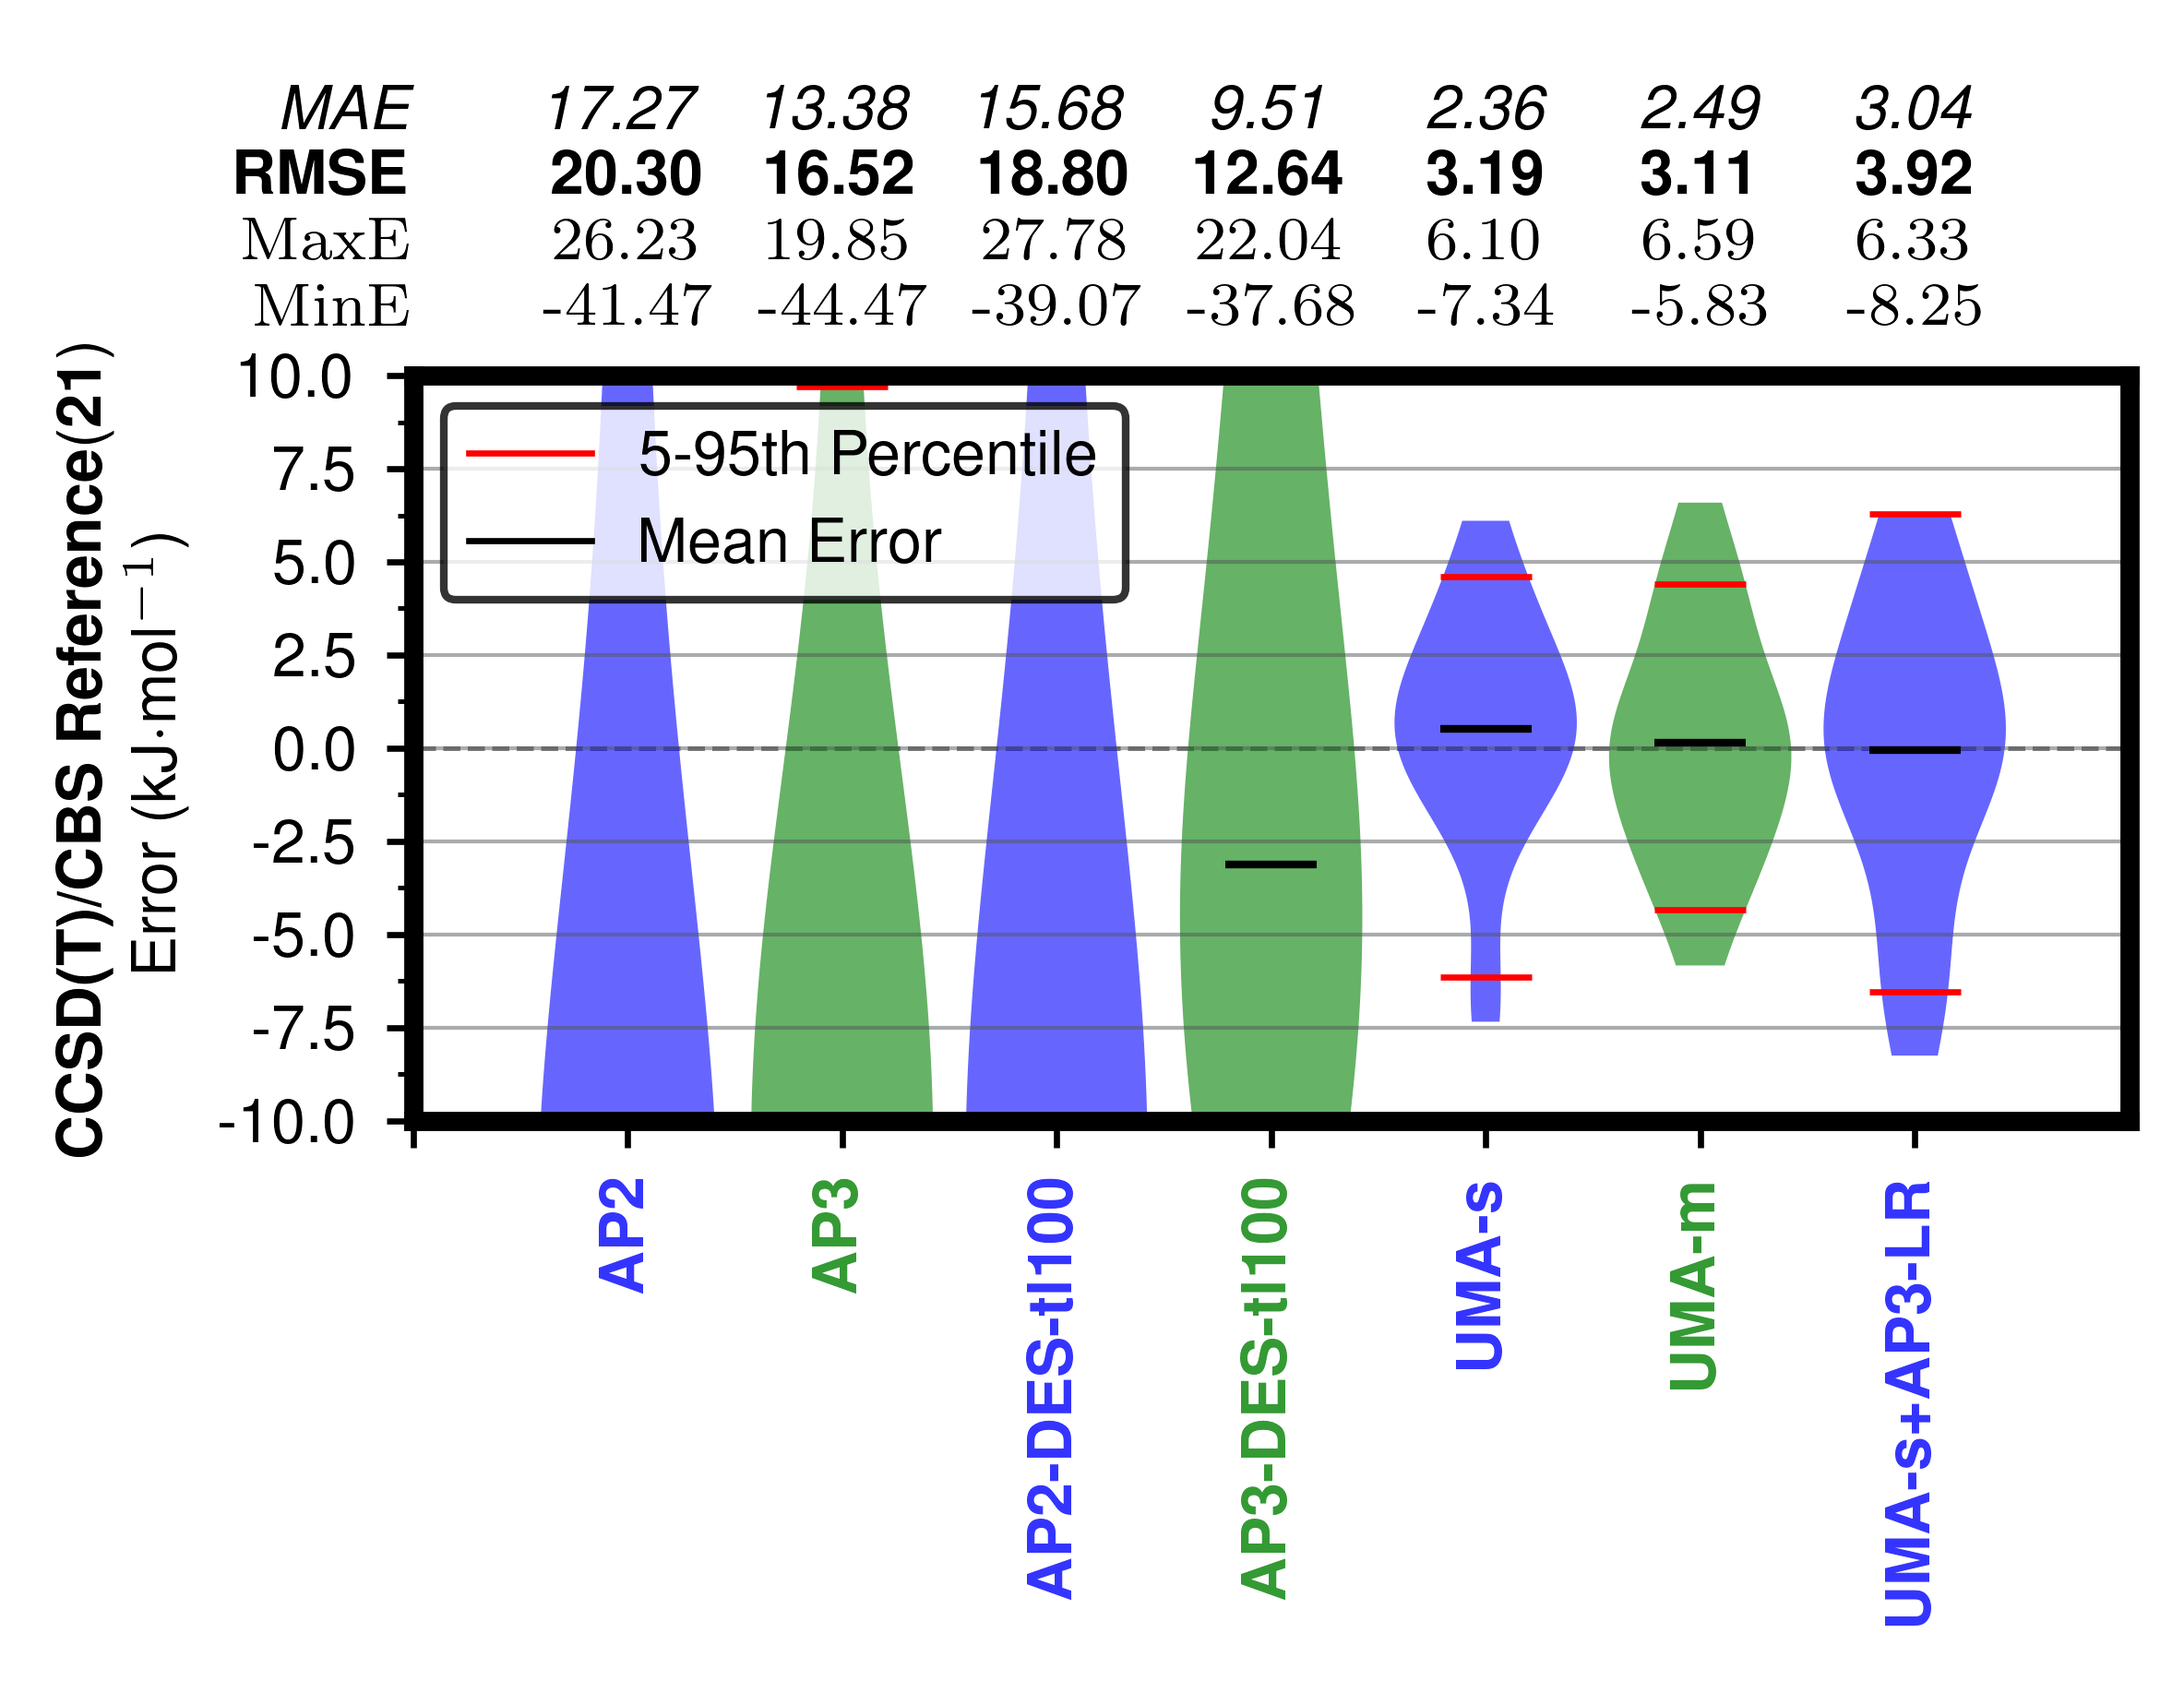
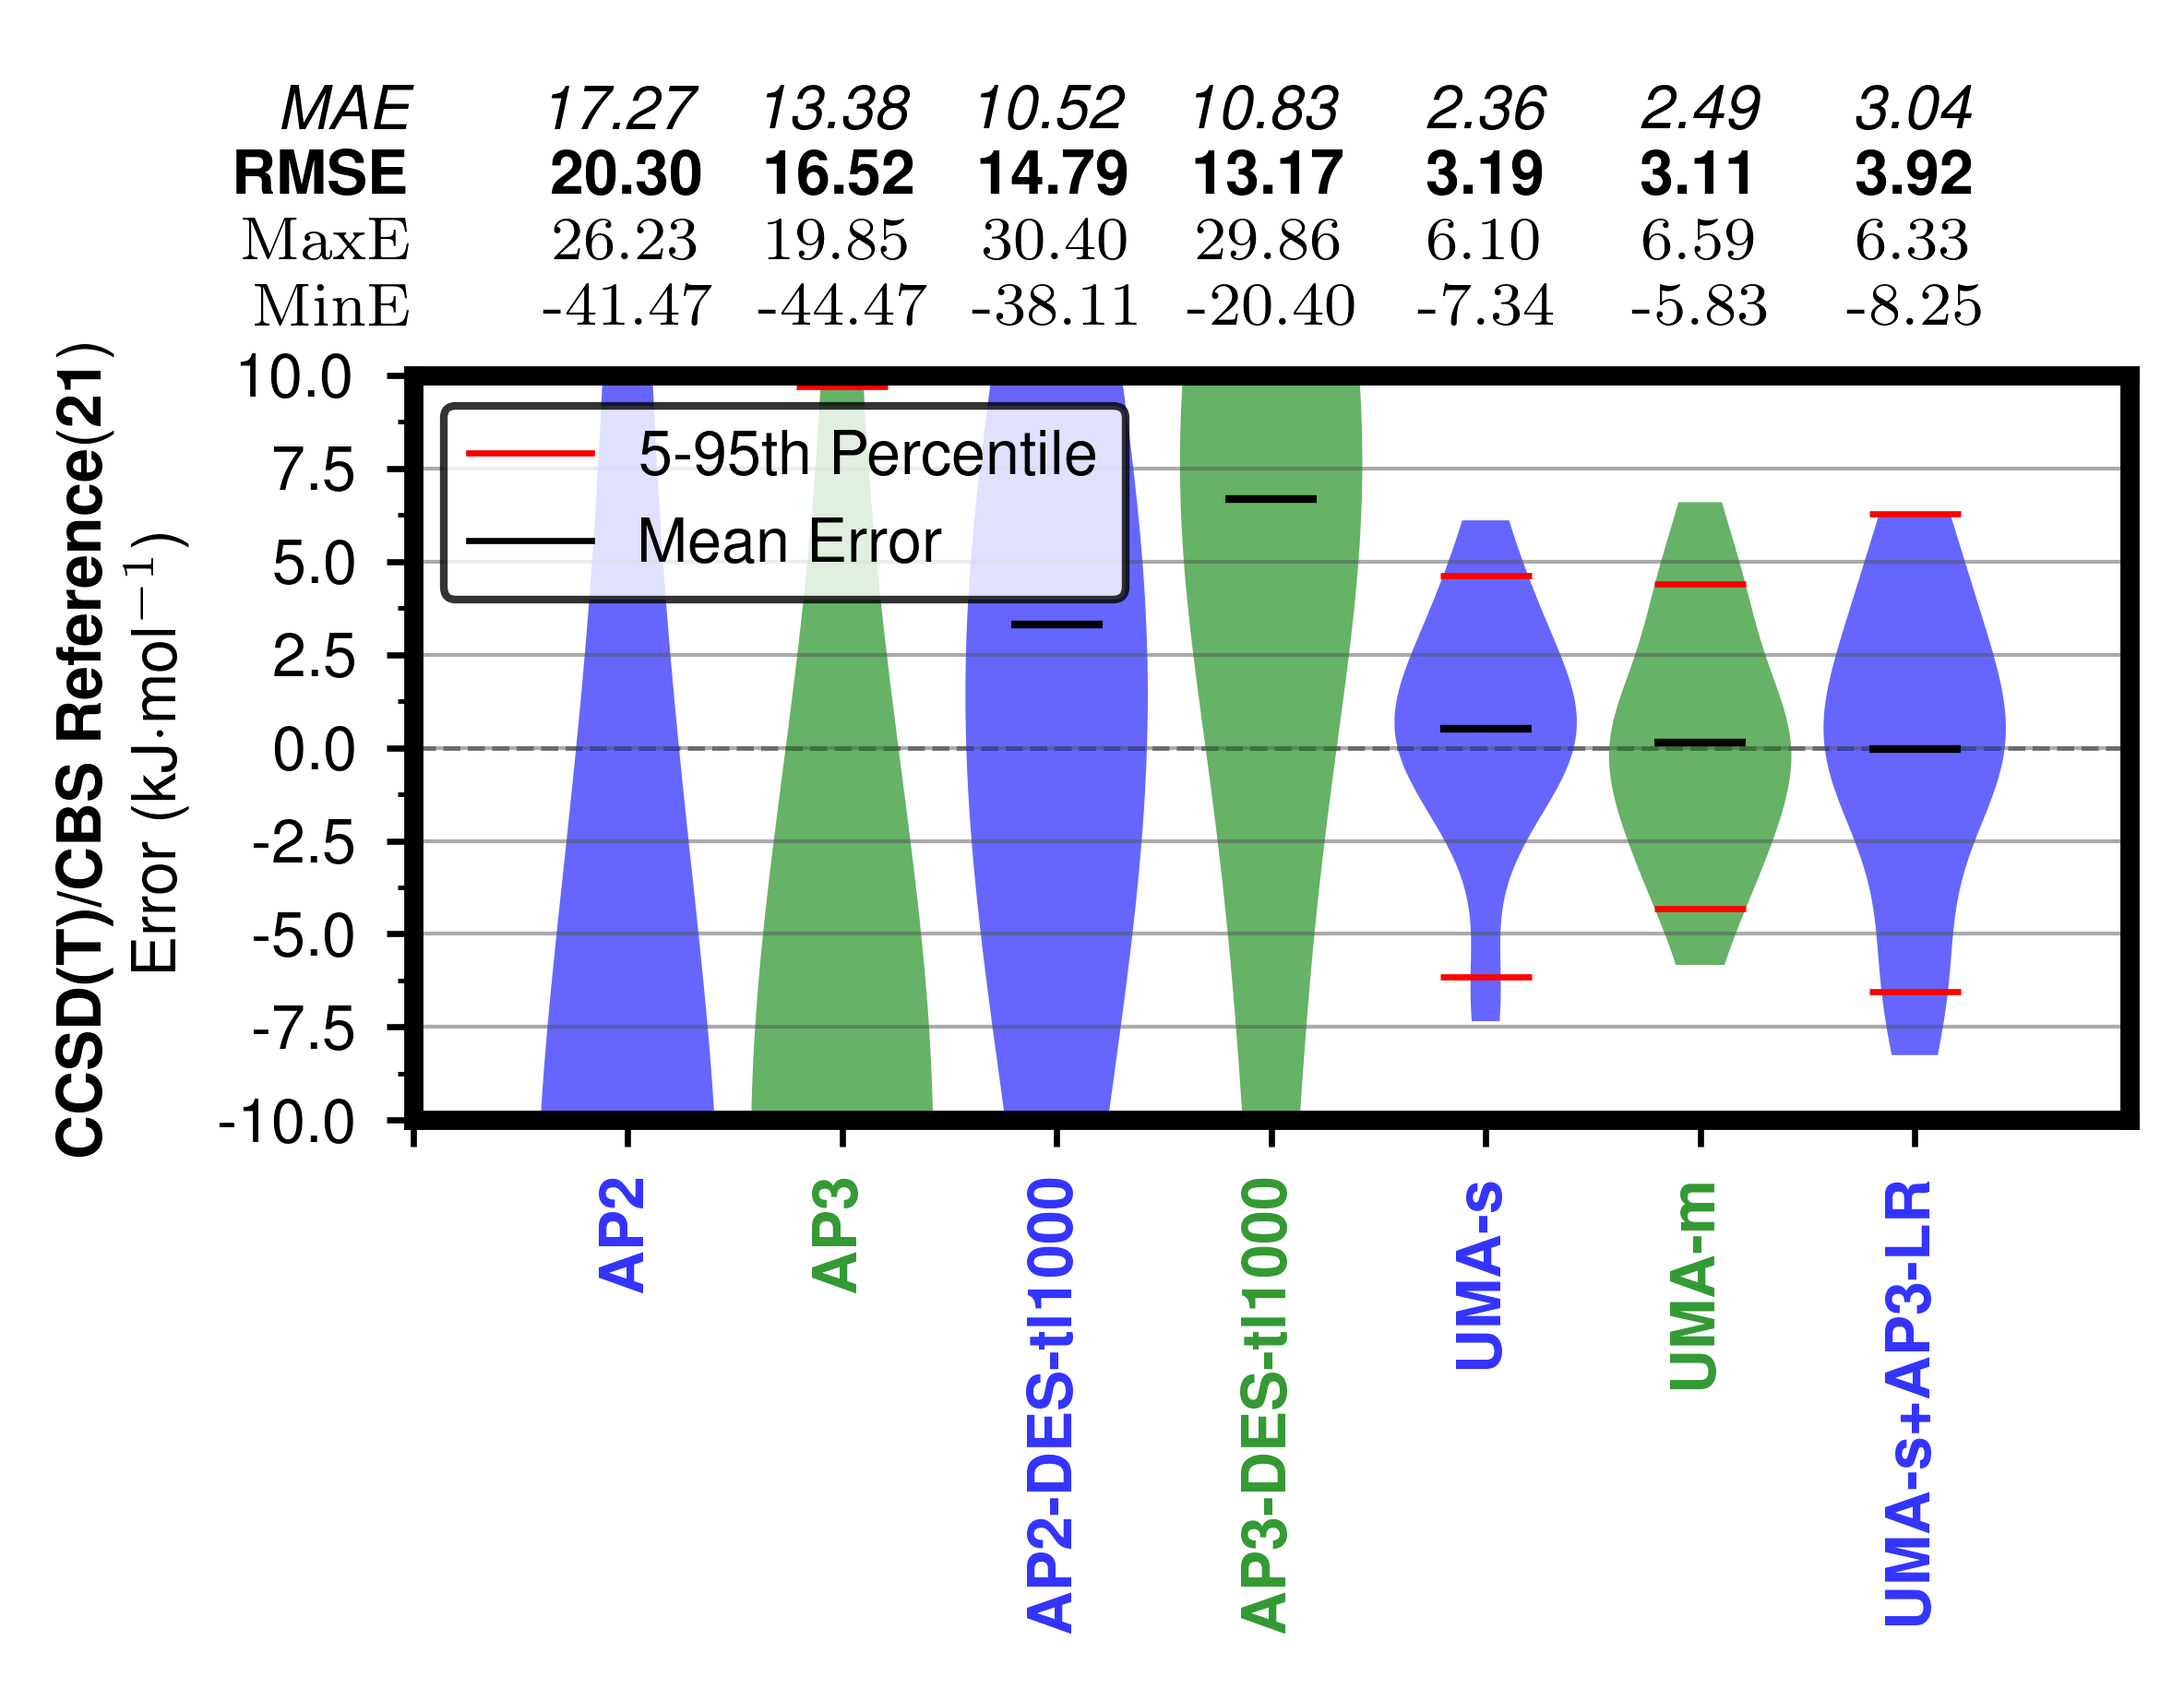
1000 0

diff --git a/crystals/crystal_main.py b/crystals/crystal_main.py
@@ -3199,7 +3199,7 @@ def main():
     #     ap2_ap3_df_energies_des370k_tl(v='bm', N=tl_N)
     #     ap2_ap3_df_energies_des370k_tl(v='apprx', N=tl_N)
     # plot_crystal_violin_errors(0, sft=False, tl_N=1000)
-    plot_crystal_lattice_energies_with_N(5, sft=False, tl_N=1000)
+    plot_crystal_lattice_energies_with_N(0, sft=False, tl_N=1000)
     # plot_crystal_lattice_energies_with_N(5, sft=False)
     return
 
